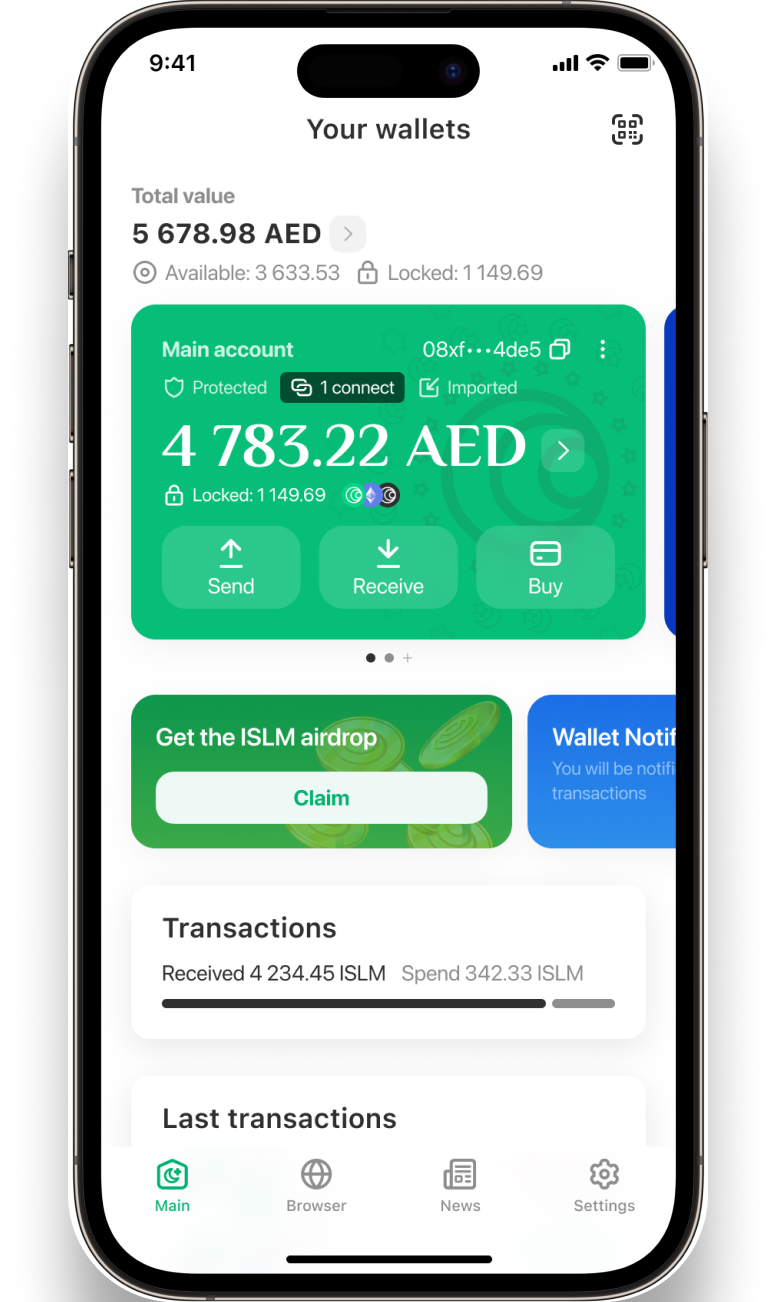
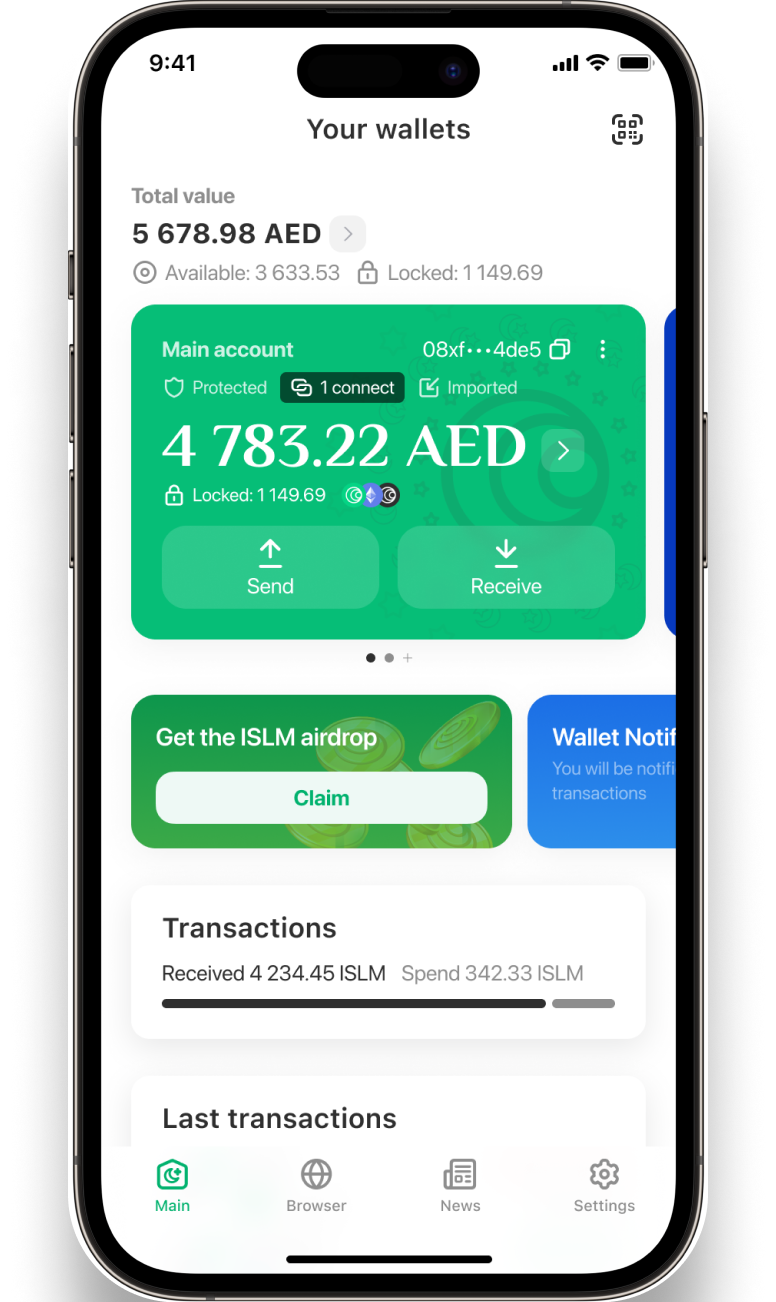
chore(islamic-website): update iphone screenshot, remove unused assets, correct asset name

Changed region(s): [[0.5876, 0.3994, 0.7423, 0.4916], [0.2784, 0.3994, 0.433, 0.4916], [0.4639, 0.3994, 0.5567, 0.4916]]

diff --git a/libs/islamic-website/wallet-page/src/lib/wallet-page/wallet-page.tsx b/libs/islamic-website/wallet-page/src/lib/wallet-page/wallet-page.tsx
@@ -8,8 +8,8 @@ import {
   RatingBadge,
   WalletDownloadButton,
 } from '@haqq/islamic-website-ui-kit';
+import bgImgData from '../assets/images/wallet-bg.webp';
 import phoneImgData from '../assets/images/wallet-iphone-screenshot.webp';
-import bgImgData from '../assets/images/wallet_bg.webp';
 
 export function WalletPage() {
   const t = useTranslations('wallet-page');
